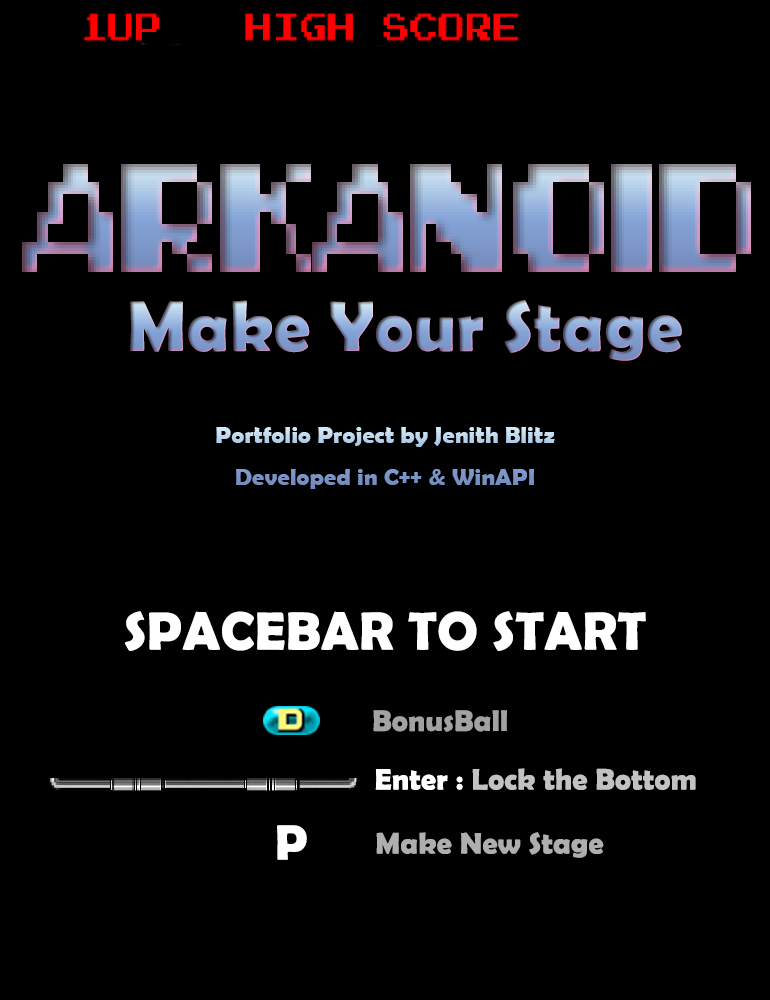
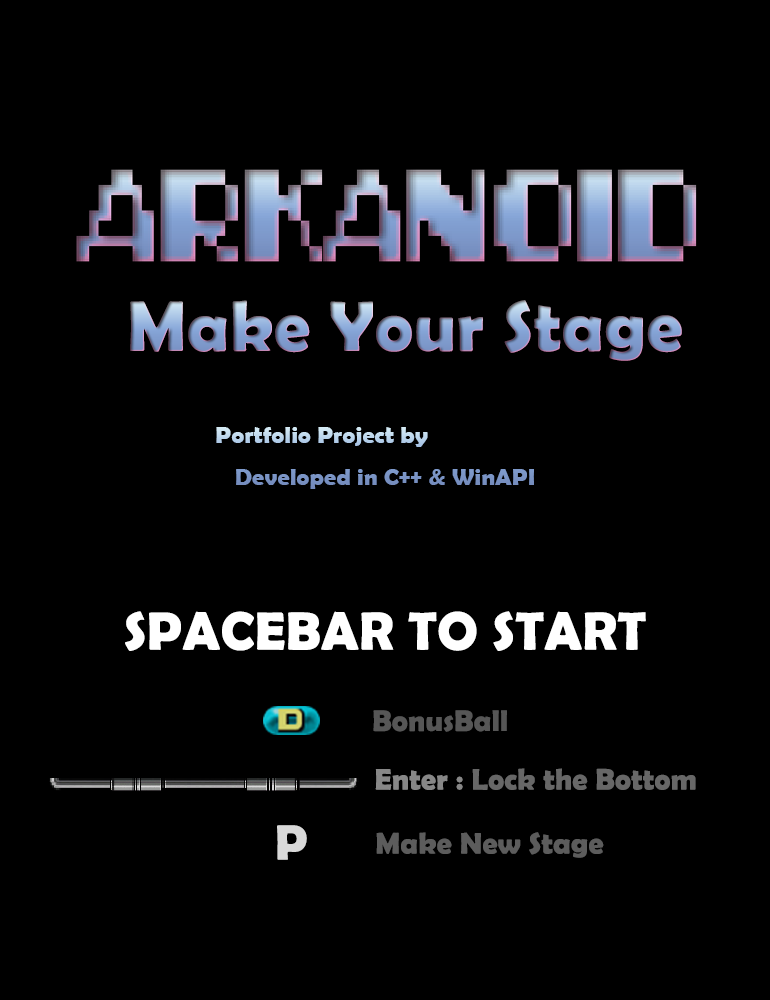
사용법- 가독성있게 변경, 시작시 벽돌있게 변경- 스코어 계산은 불가능

diff --git a/Blitz_API/Arkanoid_Contents/UI_Editor.cpp b/Blitz_API/Arkanoid_Contents/UI_Editor.cpp
@@ -12,88 +12,101 @@
 UI_Editor::UI_Editor()
 {
 	gamemode = nullptr;
+
+	if (nullptr == SpriteEdit)
+	{
+		SpriteEdit = CreateDefaultSubObject<USpriteRenderer>();
+		SpriteEdit->SetOrder(ERenderOrder::SURF);
+		SpriteEdit->SetSprite("Text_edit_all.png");
+		SpriteEdit->SetComponentScale({ 500,62 });
+		SpriteEdit->SetComponentLocation({ 400,150 });
+		//SpriteEdit->SetPivot({ 0,0 });
+		SpriteEdit->SetAlphafloat(0.75f);
+
+	}
+
 }
 
 void UI_Editor::BeginPlay()
 {
 	Super::BeginPlay();
 
-	gamemode = GetWorld()->GetGameMode<BrickEditorGameMode>();
+	//gamemode = GetWorld()->GetGameMode<BrickEditorGameMode>();
+
+	{
+		//float center = 100.f;
+		//float height = 140.f;
+		//float smallFontsize = 20;
+		//float bigFontSize = 35;
+
+		//letter1 = GetWorld()->SpawnActor<ALetter>();
+		//letter1->SetActorLocation({ center,height });
+		//letter1->SetTextSpriteName("Text_Letters1.png");
+		//letter1->SetOrder(ERenderOrder::UI);
+		//letter1->SetTextScale({ smallFontsize, smallFontsize });
+		//letter1->SetText("rightclick");
+
+		//letter2 = GetWorld()->SpawnActor<ALetter>();
+		//letter2->SetActorLocation({ center + 400.f,height });
+		//letter2->SetTextSpriteName("Text_Letters1.png");
+		//letter2->SetOrder(ERenderOrder::UI);
+		//letter2->SetTextScale({ bigFontSize, bigFontSize });
+		//letter2->SetText("draw");
 
 
-	float center = 100.f;
-	float height = 140.f;
-	float smallFontsize = 20;
-	float bigFontSize = 35;
 
-	letter1 = GetWorld()->SpawnActor<ALetter>();
-	letter1->SetActorLocation({ center,height });
-	letter1->SetTextSpriteName("Text_Letters1.png");
-	letter1->SetOrder(ERenderOrder::UI);
-	letter1->SetTextScale({ smallFontsize, smallFontsize });
-	letter1->SetText("rightclick");
+		//center = 100.f;
+		//height = 180.f;
 
-	letter2 = GetWorld()->SpawnActor<ALetter>();
-	letter2->SetActorLocation({ center+400.f,height });
-	letter2->SetTextSpriteName("Text_Letters1.png");
-	letter2->SetOrder(ERenderOrder::UI);
-	letter2->SetTextScale({ bigFontSize, bigFontSize });
-	letter2->SetText("draw");
+		//letter3 = GetWorld()->SpawnActor<ALetter>();
+		//letter3->SetActorLocation({ center,height });
+		//letter3->SetTextSpriteName("Text_Letters1.png");
+		//letter3->SetOrder(ERenderOrder::UI);
+		//letter3->SetTextScale({ smallFontsize , smallFontsize });
+		//letter3->SetText("leftclick");
 
+		//ALetter* letter4 = GetWorld()->SpawnActor<ALetter>();
+		//letter4->SetActorLocation({ center + 400.f,height });
+		//letter4->SetTextSpriteName("Text_Letters1.png");
+		//letter4->SetOrder(ERenderOrder::UI);
+		//letter4->SetTextScale({ bigFontSize, bigFontSize });
+		//letter4->SetText("erase");
 
 
-	center = 100.f;
-	height = 180.f;
+		//center = 100.f;
+		//height = 220.f;
 
-	letter3 = GetWorld()->SpawnActor<ALetter>();
-	letter3->SetActorLocation({ center,height });
-	letter3->SetTextSpriteName("Text_Letters1.png");
-	letter3->SetOrder(ERenderOrder::UI);
-	letter3->SetTextScale({ smallFontsize , smallFontsize });
-	letter3->SetText("leftclick");
+		//ALetter* letter5 = GetWorld()->SpawnActor<ALetter>();
+		//letter5->SetActorLocation({ center,height });
+		//letter5->SetTextSpriteName("Text_Letters1.png");
+		//letter5->SetOrder(ERenderOrder::UI);
+		//letter5->SetTextScale({ bigFontSize , bigFontSize });
+		//letter5->SetText("M");
 
-	ALetter* letter4 = GetWorld()->SpawnActor<ALetter>();
-	letter4->SetActorLocation({ center+400.f,height });
-	letter4->SetTextSpriteName("Text_Letters1.png");
-	letter4->SetOrder(ERenderOrder::UI);
-	letter4->SetTextScale({ bigFontSize, bigFontSize });
-	letter4->SetText("erase");
+		//ALetter* letter6 = GetWorld()->SpawnActor<ALetter>();
+		//letter6->SetActorLocation({ center + 400.f,height });
+		//letter6->SetTextSpriteName("Text_Letters1.png");
+		//letter6->SetOrder(ERenderOrder::UI);
+		//letter6->SetTextScale({ smallFontsize, smallFontsize });
+		//letter6->SetText("save");
 
+		//center = 100.f;
+		//height = 260.f;
 
-	center = 100.f;
-	height = 220.f;
+		//ALetter* letter8 = GetWorld()->SpawnActor<ALetter>();
+		//letter8->SetActorLocation({ center,height });
+		//letter8->SetTextSpriteName("Text_Letters1.png");
+		//letter8->SetOrder(ERenderOrder::UI);
+		//letter8->SetTextScale({ bigFontSize , bigFontSize });
+		//letter8->SetText("p");
 
-	ALetter* letter5 = GetWorld()->SpawnActor<ALetter>();
-	letter5->SetActorLocation({ center,height });
-	letter5->SetTextSpriteName("Text_Letters1.png");
-	letter5->SetOrder(ERenderOrder::UI);
-	letter5->SetTextScale({ bigFontSize , bigFontSize });
-	letter5->SetText("M");
-
-	ALetter* letter6 = GetWorld()->SpawnActor<ALetter>();
-	letter6->SetActorLocation({ center + 400.f,height });
-	letter6->SetTextSpriteName("Text_Letters1.png");
-	letter6->SetOrder(ERenderOrder::UI);
-	letter6->SetTextScale({ smallFontsize, smallFontsize });
-	letter6->SetText("save");
-
-	center = 100.f;
-	height = 260.f;
-
-	ALetter* letter8 = GetWorld()->SpawnActor<ALetter>();
-	letter8->SetActorLocation({ center,height });
-	letter8->SetTextSpriteName("Text_Letters1.png");
-	letter8->SetOrder(ERenderOrder::UI);
-	letter8->SetTextScale({ bigFontSize , bigFontSize });
-	letter8->SetText("p");
-
-	ALetter* letter7 = GetWorld()->SpawnActor<ALetter>();
-	letter7->SetActorLocation({ center+400.f,height });
-	letter7->SetTextSpriteName("Text_Letters1.png");
-	letter7->SetOrder(ERenderOrder::UI);
-	letter7->SetTextScale({ smallFontsize , smallFontsize });
-	letter7->SetText("GoToPlay");
-
+		//ALetter* letter7 = GetWorld()->SpawnActor<ALetter>();
+		//letter7->SetActorLocation({ center + 400.f,height });
+		//letter7->SetTextSpriteName("Text_Letters1.png");
+		//letter7->SetOrder(ERenderOrder::UI);
+		//letter7->SetTextScale({ smallFontsize , smallFontsize });
+		//letter7->SetText("GoToPlay");
+	}
 
 
 
@@ -104,6 +117,17 @@ void UI_Editor::BeginPlay()
 void UI_Editor::Tick(float _DeltaTime)
 {
 	Super::Tick(_DeltaTime);
+	if (nullptr == SpriteEdit)
+	{
+		SpriteEdit = CreateDefaultSubObject<USpriteRenderer>();
+		SpriteEdit->SetOrder(ERenderOrder::SURF);
+		SpriteEdit->SetSprite("Text_edit_all.png");
+		SpriteEdit->SetComponentScale({ 635,79 });
+		SpriteEdit->SetComponentLocation({ 300,300 });
+		//SpriteEdit->SetPivot({ 0,0 });
+		SpriteEdit->SetAlphafloat(0.75f);
+
+	}
 
 
 }

diff --git a/Blitz_API/Arkanoid_Contents/BrickEditorGameMode.cpp b/Blitz_API/Arkanoid_Contents/BrickEditorGameMode.cpp
@@ -69,17 +69,17 @@ void BrickEditorGameMode::BeginPlay()
 
 	{
 		UI_EditorLetters = GetWorld()->SpawnActor<UI_Editor>();
-		UI_EditorLetters->SetActive(false);
+		//UI_EditorLetters->SetActive(false);
 
 		USpriteRenderer* SpriteRender = CreateDefaultSubObject<USpriteRenderer>();
 		SpriteRender->SetOrder(ERenderOrder::SURF);
 		SpriteRender->SetSprite("Text_Spacebar.png");
+		SpriteRender->SetAlphafloat(0.6f);
 
 		FVector2D WinSize = UEngineAPICore::GetCore()->GetMainWindow().GetWindowSize();
-		SpriteRender->SetComponentScale(WinSize);
+		SpriteRender->SetComponentScale({557.f,172.f});
 
 		FVector2D MapScale = SpriteRender->SetSpriteScale(0.55f);
-		//SpriteRender->SetComponentLocation(MapScale.Half());
 		SpriteRender->SetComponentLocation({250.f,900.f});
 	}
 
@@ -88,7 +88,7 @@ void BrickEditorGameMode::BeginPlay()
 
 
 void BrickEditorGameMode::Tick(float _DeltaTime)
-{
+{ 
 
 	Super::Tick(_DeltaTime);
 
@@ -113,11 +113,6 @@ void BrickEditorGameMode::Tick(float _DeltaTime)
 	if (UEngineInput::GetInst().IsDown('P'))
 	{
 		UEngineAPICore::GetCore()->OpenLevel("Play");
-	}
-
-	if (UEngineInput::GetInst().IsDown('Q'))
-	{
-		UEngineAPICore::GetCore()->OpenLevel("Tmp");
 	}
 
 	static bool IsSpaceBarPressed = false;
@@ -148,7 +143,6 @@ void BrickEditorGameMode::Tick(float _DeltaTime)
 	if (true == UEngineInput::GetInst().IsPress(VK_LBUTTON))
 	{
 		FVector2D MousePos = UEngineAPICore::GetCore()->GetMainWindow().GetMousePos();
-		//ABrick* brick = GetWorld()->SpawnActor<ABrick>();		
 		Editor->SetBrickLocation(MousePos, BrickType);
 	}
 

diff --git a/Blitz_API/Arkanoid_Contents/TestGameMode.h b/Blitz_API/Arkanoid_Contents/TestGameMode.h
@@ -38,7 +38,6 @@ protected:
 
 private:
 	class BrickEditor* Editor=nullptr;
-	//class BrickEditor* EditorLoad = nullptr;
 	class APaddle* Paddle = nullptr;
 	class AScore* score = nullptr;
 	class AScore* playTime = nullptr;
@@ -56,6 +55,9 @@ private:
 	class UI* UILetters = nullptr;
 	class UI_P* UILettersP = nullptr;
 	class USpriteRenderer* SpriteRenderTuto = nullptr;
+	class USpriteRenderer* SpriteEnter = nullptr;
+	class USpriteRenderer* SpriteLoad = nullptr;
+	class USpriteRenderer* SpriteMove = nullptr;
 
 };
 

diff --git a/Blitz_API/Arkanoid_Contents/UI_Editor.h b/Blitz_API/Arkanoid_Contents/UI_Editor.h
@@ -30,6 +30,6 @@ private:
 	ALetter* letter2 = nullptr;
 	ALetter* letter3 = nullptr;
 
-	class USpriteRenderer* SpriteRender=nullptr;
+	class USpriteRenderer* SpriteEdit =nullptr;
 
 };
